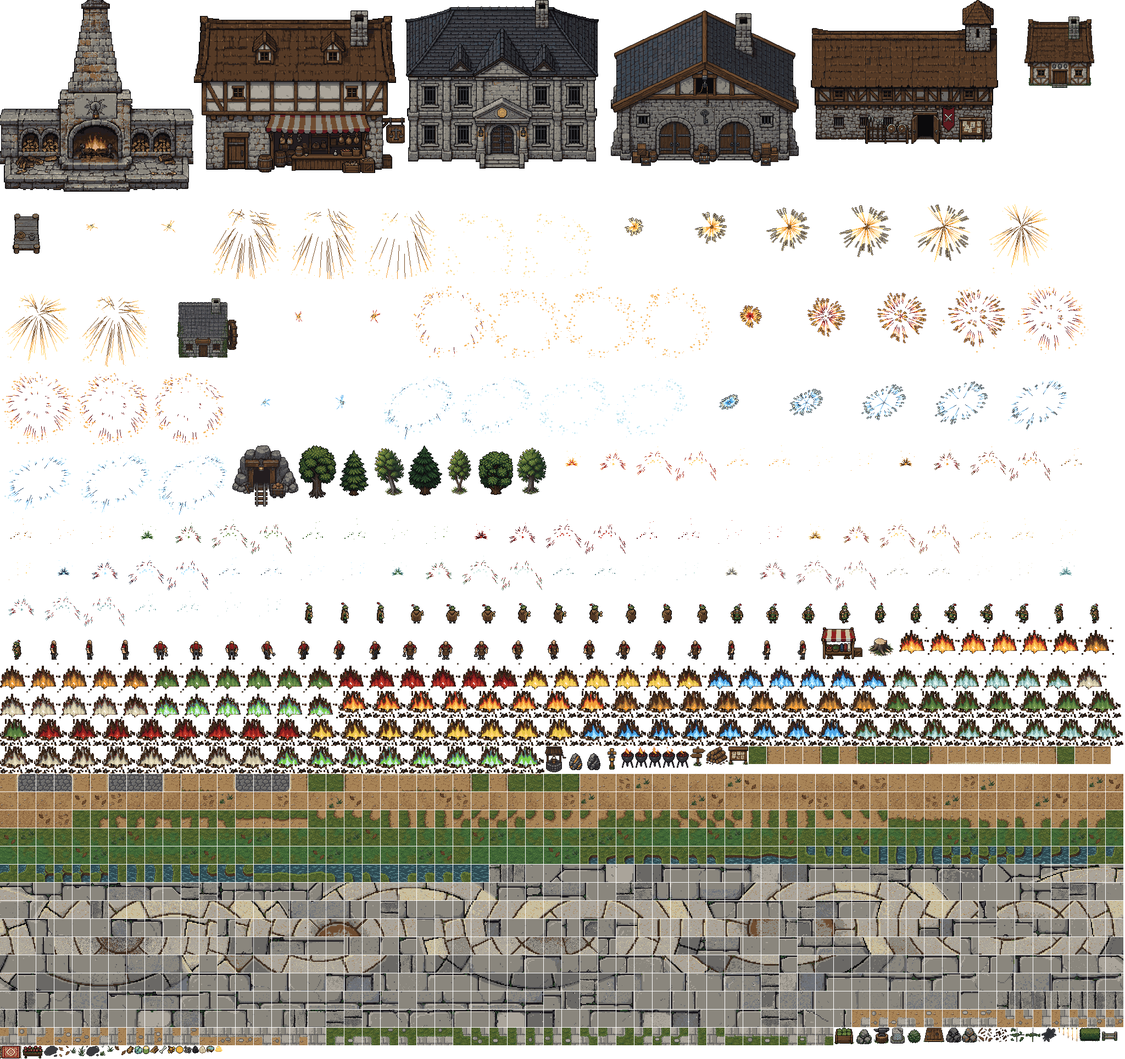
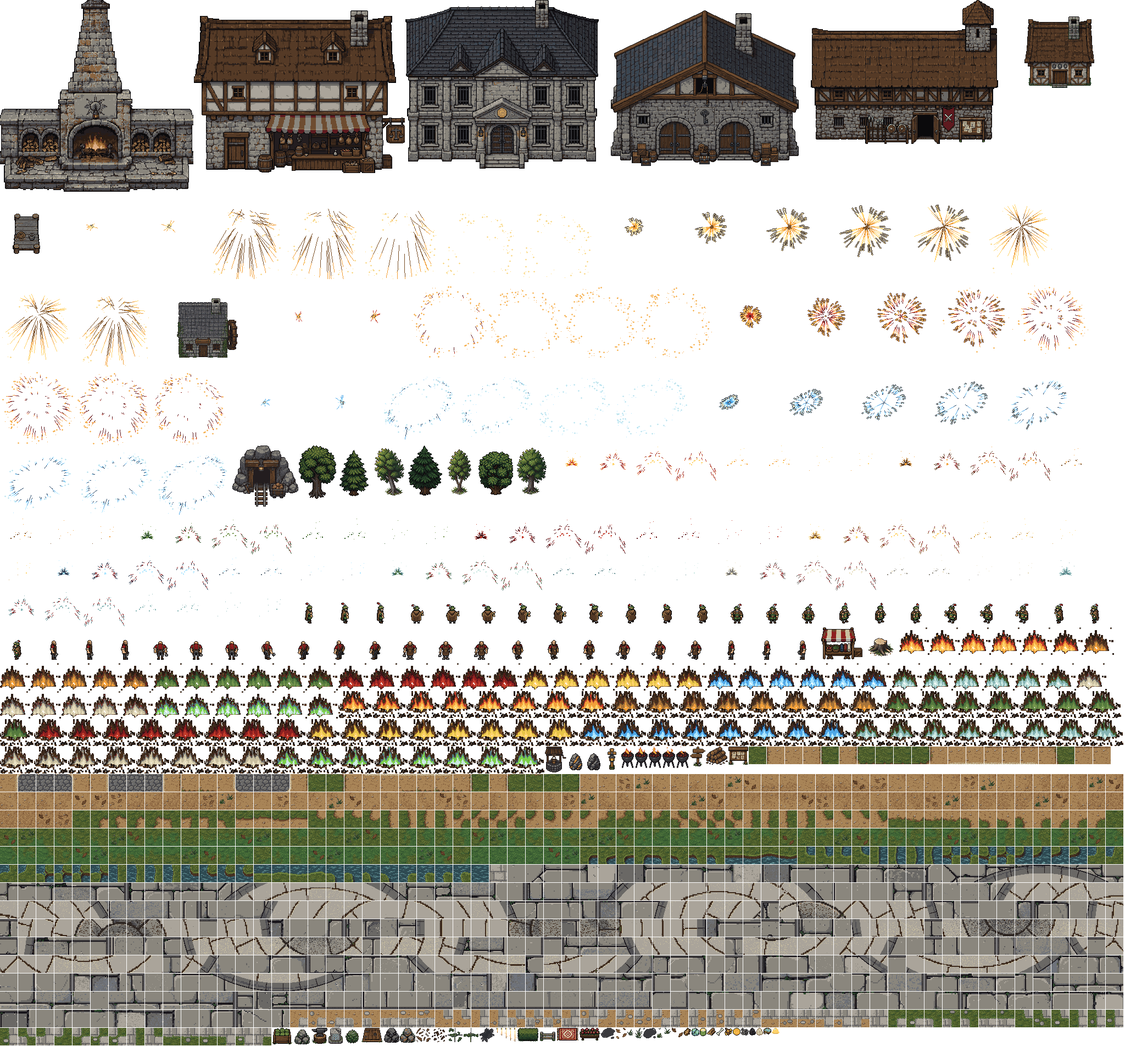
havora art step 2b: the ring and the Hearth one build, a real kerb, the lane's setts carried into the square
hearth-plaza.mjs: disc + first course in the Hearth's own stone (its greys, warm joints, rust flecks); buff courses worn smooth
(highlight upper-left, shade lower-right, a few cracks, no speckle); a slim dark kerb at the rim; the square's edge band is the
lane's setts on the lane's grid with a narrow kerb course inside it (no stone-to-stone cut). Fuel corners by the Hearth: woodpile,
split log / pithwood, fire bucket, bark chips. 0 gens. world-core, world-assets, town-stations, build --check exit 0.

diff --git a/src/data/world/town/sites.js b/src/data/world/town/sites.js
@@ -37,6 +37,8 @@ export const SCENERY = Object.freeze([
   ['square_general_store', 106, 30], ['square_depot', 118, 30], ['square_bank', 113, 16], ['square_barracks', 108, 66],
   ['square_market_stall', 129, 44], ['square_market_stall', 129, 48], ['square_market_stall', 129, 52], ['square_market_stall', 129, 56],
   ['hearth_brazier', 111, 54], ['hearth_brazier', 124, 54],
+  /* the fuel corners either side of the Hearth (step 2b): the woodpile, a split log or pithwood waiting to be thrown, the fire bucket, bark chips where the fuel is thrown */
+  ['fuel_log', 111, 48], ['bucket', 111, 49], ['fuel_pithwood', 123, 48], ['bucket', 123, 49], ['square_decal_chips_b', 114, 51],
   ['ty_bench_pair', 123, 55], ['ty_bench_pair', 125, 55], ['ty_bench_pair', 127, 55],
   ['ty_bench_pair', 123, 58], ['ty_bench_pair', 125, 58], ['ty_bench_pair', 127, 58],
   ['square_decal_chips_a', 120, 51], ['square_decal_moss_a', 131, 59],

diff --git a/src/data/world/maps/town_common.js b/src/data/world/maps/town_common.js
@@ -70,5 +70,5 @@ export default Object.freeze({
   /* the lint's reach origin: the gatehouse's first stand (a hero back from a hunt arrives on one of the
      gatehouse's stands, the one the SERVER holds for it: 2027-01-28-town-stands.sql) */
   start: first(ACTIVITY_STATIONS.arrival),
-  maskHash: '482ff106',
+  maskHash: 'd1b64276',
 });
